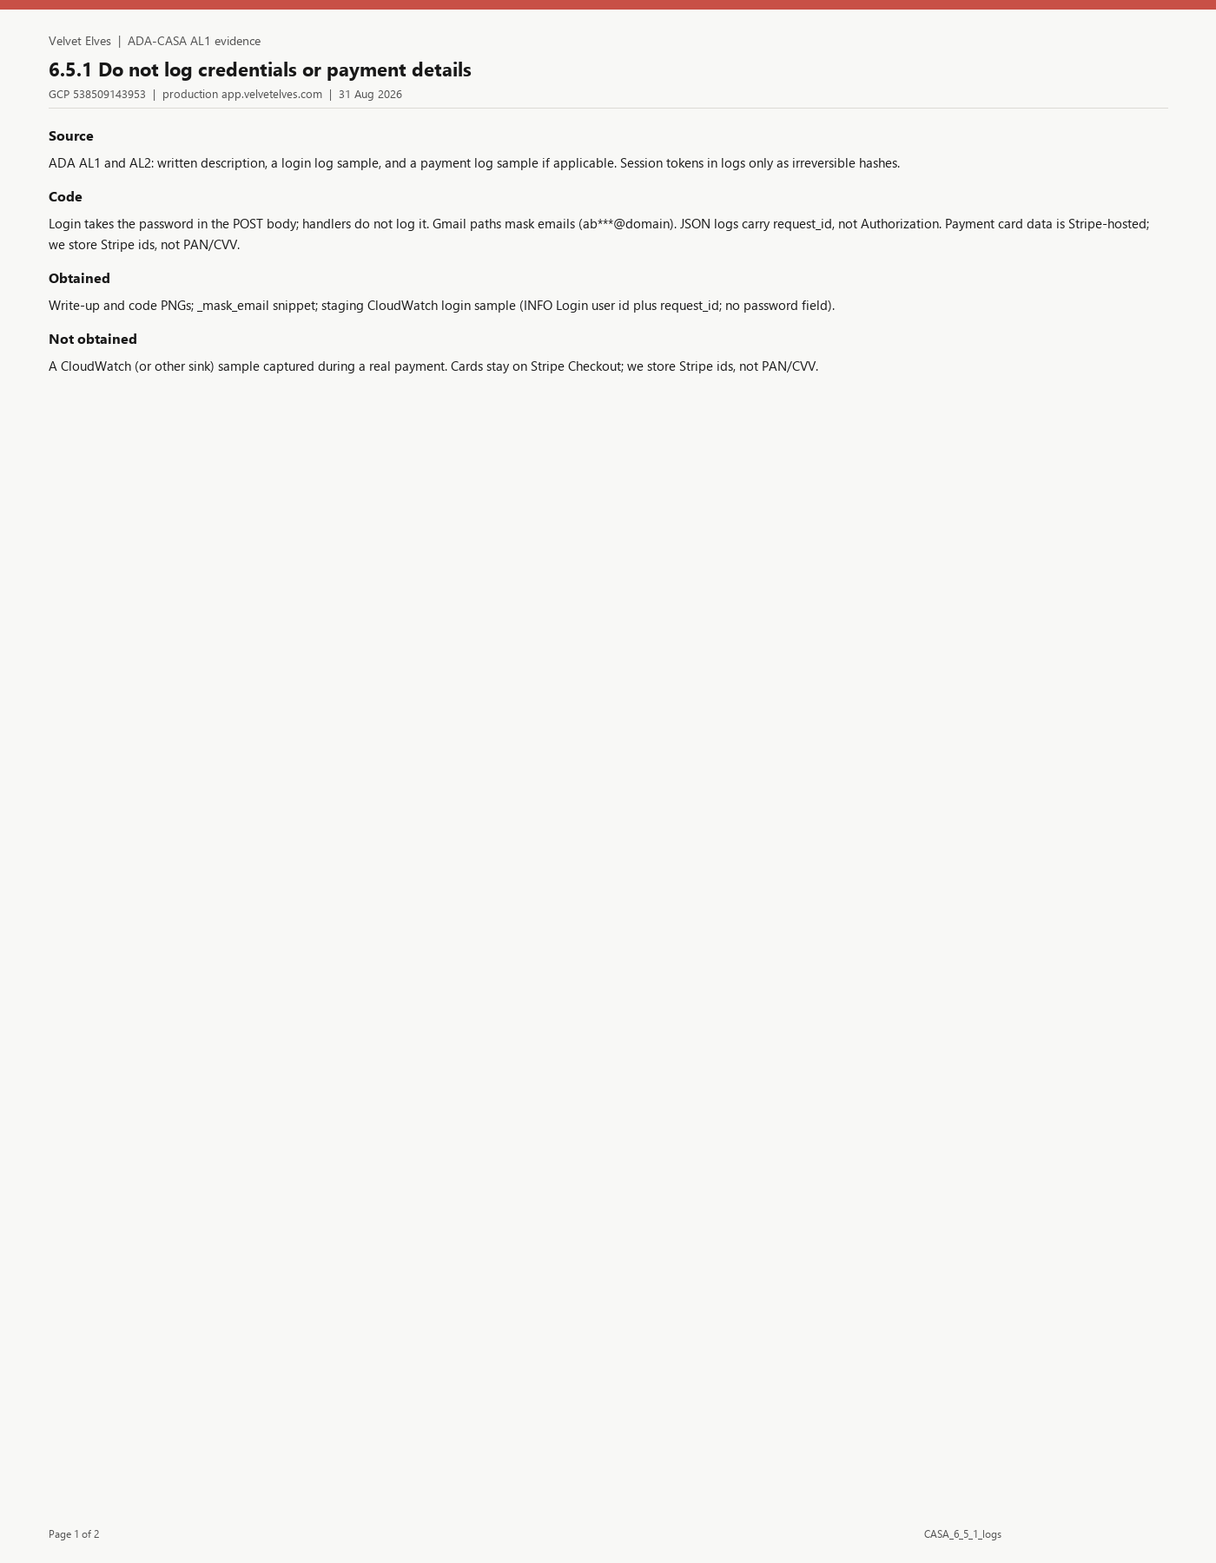
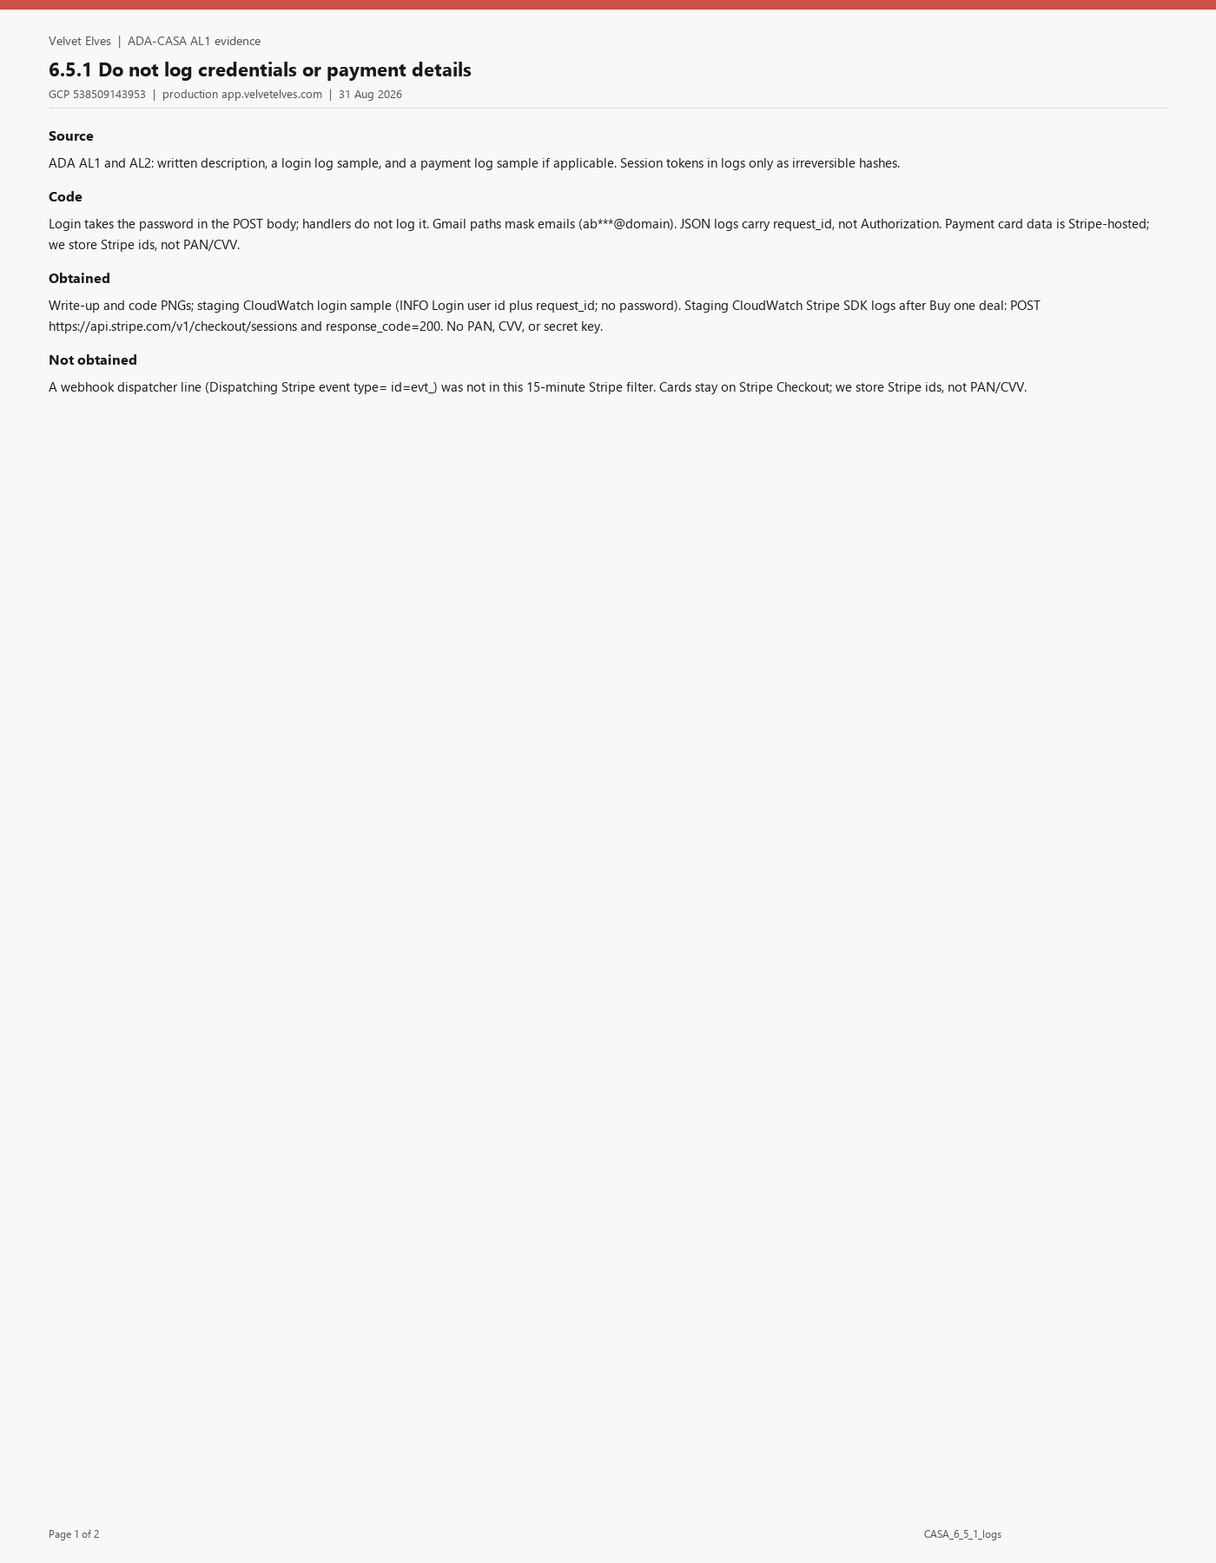
docs(casa): add staging Stripe checkout CloudWatch samples for 6.5.1

Changed region(s): [[0.0307, 0.1867, 0.6757, 0.2489]]

diff --git a/casa_auth_qa/append_casa_rest_pack.py b/casa_auth_qa/append_casa_rest_pack.py
@@ -349,9 +349,9 @@ Live DNS on 31 Aug 2026: app.velvetelves.com and app.stage.velvetelves.com resol
 
 **ADA:** Written description PLUS a login log sample PLUS a payment log sample.
 
-**Claimed:** Code does not log passwords; emails masked; Stripe holds PAN. Staging CloudWatch login event logs user id + request_id only.
+**Claimed:** Code does not log passwords; emails masked; Stripe holds PAN. Staging CloudWatch login event logs user id + request_id only. Staging CloudWatch after Buy one deal: Stripe SDK POST /v1/checkout/sessions and response 200; no PAN/CVV/secret.
 
-**Missing (ADA-named):** Sample from a real payment. Login sample is obtained.
+**Missing:** Webhook dispatcher line (`Dispatching Stripe event type= id=evt_`) was not in this 15-minute Stripe filter. Not required once a payment-process sample exists.
 
 ### Images
 
@@ -362,11 +362,13 @@ Live DNS on 31 Aug 2026: app.velvetelves.com and app.stage.velvetelves.com resol
 | [`tac_images/6.5.1/CASA_6_5_1_logs_code.png`](tac_images/6.5.1/CASA_6_5_1_logs_code.png) | _mask_email; Login user id logger |
 | [`tac_images/6.5.1/CASA_6_5_1_mask.png`](tac_images/6.5.1/CASA_6_5_1_mask.png) | Mask helper |
 | [`tac_images/6.5.1/CASA_6_5_1_login_log.png`](tac_images/6.5.1/CASA_6_5_1_login_log.png) | Staging Insights: Login user id, no password |
+| [`tac_images/6.5.1/CASA_6_5_1_payment_log.png`](tac_images/6.5.1/CASA_6_5_1_payment_log.png) | Staging Insights: Stripe checkout/sessions 200 |
+| [`tac_images/6.5.1/CASA_6_5_1_payment_request.png`](tac_images/6.5.1/CASA_6_5_1_payment_request.png) | Staging Insights: Stripe POST checkout/sessions |
 
 ### Portal comment
 
 ```
-Login passwords are not written to the application logger. Gmail paths mask emails (local-part prefix plus ***). JSON logs include a request id, not the Authorization header. Card data is collected on Stripe Checkout; we store Stripe ids, not PAN or CVV. Staging CloudWatch log group /ecs/velvet-elves/stage/backend on 31 Aug 2026 recorded INFO Login user id=<uuid> with a request_id; the event has no password field and no Authorization header. A payment-process log extract was not obtained.
+Login passwords are not written to the application logger. Gmail paths mask emails (local-part prefix plus ***). JSON logs include a request id, not the Authorization header. Card data is collected on Stripe Checkout; we store Stripe ids, not PAN or CVV. Staging CloudWatch log group /ecs/velvet-elves/stage/backend on 31 Aug 2026 recorded INFO Login user id=<uuid> with a request_id; the event has no password field and no Authorization header. The same log group after a staging Buy one deal checkout recorded stripe logger INFO POST https://api.stripe.com/v1/checkout/sessions and Stripe API response path=https://api.stripe.com/v1/checkout/sessions response_code=200. Those events have no PAN, CVV, or Stripe secret key.
 ```
 
 ---
@@ -445,7 +447,7 @@ def main():
 | 43 | 6.2.1 | Debug off in production | 5 | pack 6.2.1 |
 | 44 | 6.3.1 | Origin not authz | 5 | pack 6.3.1 |
 | 45 | 6.4.1 | Subdomain takeover | 4 | pack 6.4.1 |
-| 46 | 6.5.1 | No credential logs | 5 | pack 6.5.1 — payment log missing |
+| 46 | 6.5.1 | No credential logs | 7 | pack 6.5.1 |
 | 47 | 6.6.1 | Logout clears storage | 4 | pack 6.6.1 |
 | 48 | 6.7.1 | Server secrets | 3 | pack 6.7.1 — no AWS console |
 
@@ -529,7 +531,7 @@ def main():
         ),
         (
             "| 46 | 6.5.1 do not log credentials | `M9g_logging.md` | Logs mask emails No tokens or mail bodies |",
-            "| 46 | 6.5.1 do not log credentials | `tac_images/6.5.1/` — `CASA_6_5_1_logs_page1.png`, `logs_page2.png`, `logs_code.png`, `mask.png`, `login_log.png` | Login passwords are not written to the application logger. Gmail paths mask emails (local-part prefix plus ***). JSON logs include a request id, not the Authorization header. Card data is collected on Stripe Checkout; we store Stripe ids, not PAN or CVV. Staging CloudWatch log group /ecs/velvet-elves/stage/backend on 31 Aug 2026 recorded INFO Login user id=<uuid> with a request_id; the event has no password field and no Authorization header. A payment-process log extract was not obtained. |",
+            "| 46 | 6.5.1 do not log credentials | `tac_images/6.5.1/` — `CASA_6_5_1_logs_page1.png`, `logs_page2.png`, `logs_code.png`, `mask.png`, `login_log.png`, `payment_log.png`, `payment_request.png` | Login passwords are not written to the application logger. Gmail paths mask emails (local-part prefix plus ***). JSON logs include a request id, not the Authorization header. Card data is collected on Stripe Checkout; we store Stripe ids, not PAN or CVV. Staging CloudWatch log group /ecs/velvet-elves/stage/backend on 31 Aug 2026 recorded INFO Login user id=<uuid> with a request_id; the event has no password field and no Authorization header. The same log group after a staging Buy one deal checkout recorded stripe logger INFO POST https://api.stripe.com/v1/checkout/sessions and Stripe API response path=https://api.stripe.com/v1/checkout/sessions response_code=200. Those events have no PAN, CVV, or Stripe secret key. |",
         ),
         (
             "| 47 | 6.6.1 clear browser storage on logout | `compensating_controls.md` | Logout clears velvet elves token keys in localStorage |",
@@ -562,7 +564,7 @@ def main():
         "| 43 | 6.2.1 | Ready | M9a + S11 | [ ] |": "| 43 | 6.2.1 | Packed 31 Aug (prod docs 404; staging docs 200) | CASA_6_2_1 | [ ] |",
         "| 44 | 6.3.1 | Ready | M9f | [ ] |": "| 44 | 6.3.1 | Packed 31 Aug (foreign Origin /users/me 401) | CASA_6_3_1 | [ ] |",
         "| 45 | 6.4.1 | Verify S9 | M9a + S9 | [ ] |": "| 45 | 6.4.1 | Packed 31 Aug (live DNS). Route 53 console NOT captured | CASA_6_4_1 | [ ] |",
-        "| 46 | 6.5.1 | Ready | M9g | [ ] |": "| 46 | 6.5.1 | Packed 31 Aug (code mask + staging CloudWatch login). Payment log NOT captured | CASA_6_5_1 | [ ] |",
+        "| 46 | 6.5.1 | Ready | M9g | [ ] |": "| 46 | 6.5.1 | Packed 31 Aug (code mask + staging CloudWatch login + Stripe checkout/sessions 200) | CASA_6_5_1 | [ ] |",
         "| 47 | 6.6.1 | Ready (verified 27 Aug) | comp | [ ] |": "| 47 | 6.6.1 | Packed 31 Aug (clearTokens; after_logout copy from 2.2.1) | CASA_6_6_1 | [ ] |",
         "| 48 | 6.7.1 | Ready | M9d | [ ] |": "| 48 | 6.7.1 | Packed 31 Aug (Secrets Manager + Fernet). AWS console NOT captured | CASA_6_7_1 | [ ] |",
     }
@@ -582,7 +584,7 @@ def main():
 - **6.2.1** — Packed. Prod docs 404; staging docs 200.
 - **6.3.1** — Packed. Foreign Origin /users/me 401.
 - **6.4.1** — Packed live DNS. Route 53 console NOT captured.
-- **6.5.1** — Packed code mask + staging CloudWatch login sample (user id only). Payment log sample NOT captured (ADA-named gap).
+- **6.5.1** — Packed code mask + staging CloudWatch login (user id) + Stripe checkout-session POST/200 (no PAN).
 - **6.6.1** — Packed. after_logout copied from 2.2.1.
 - **6.7.1** — Packed write-up. AWS Secrets Manager console NOT captured."""
     if old not in gap:

diff --git a/casa_auth_qa/render_casa_rest.py b/casa_auth_qa/render_casa_rest.py
@@ -354,8 +354,8 @@ Route 53 console: not captured.""",
         [
             ("Source", "ADA AL1 and AL2: written description, a login log sample, and a payment log sample if applicable. Session tokens in logs only as irreversible hashes."),
             ("Code", "Login takes the password in the POST body; handlers do not log it. Gmail paths mask emails (ab***@domain). JSON logs carry request_id, not Authorization. Payment card data is Stripe-hosted; we store Stripe ids, not PAN/CVV."),
-            ("Obtained", "Write-up and code PNGs; _mask_email snippet; staging CloudWatch login sample (INFO Login user id plus request_id; no password field)."),
-            ("Not obtained", "A CloudWatch (or other sink) sample captured during a real payment. Cards stay on Stripe Checkout; we store Stripe ids, not PAN/CVV."),
+            ("Obtained", "Write-up and code PNGs; staging CloudWatch login sample (INFO Login user id plus request_id; no password). Staging CloudWatch Stripe SDK logs after Buy one deal: POST https://api.stripe.com/v1/checkout/sessions and response_code=200. No PAN, CVV, or secret key."),
+            ("Not obtained", "A webhook dispatcher line (Dispatching Stripe event type= id=evt_) was not in this 15-minute Stripe filter. Cards stay on Stripe Checkout; we store Stripe ids, not PAN/CVV."),
         ],
     )
     save_page2(
@@ -365,14 +365,14 @@ Route 53 console: not captured.""",
         [
             ("Written description", "This page plus M9g_logging.md."),
             ("Login log sample", "Staging CloudWatch /ecs/velvet-elves/stage/backend 31 Aug 2026: INFO Login user id=<uuid> plus request_id. No password, no Authorization."),
-            ("Payment log sample", "NOT captured. Cards are on Stripe Checkout."),
+            ("Payment log sample", "Same log group 31 Aug 2026 after staging Buy one deal: stripe logger INFO POST /v1/checkout/sessions and Stripe API response 200. No PAN, CVV, or Stripe secret."),
         ],
-        "Code masks emails and does not log passwords or PAN. Staging CloudWatch login extract obtained 31 Aug 2026. A payment log extract was not obtained.",
+        "Code masks emails and does not log passwords or PAN. Staging CloudWatch login and Stripe checkout-session extracts obtained 31 Aug 2026.",
     )
     save_code(
         d,
         "CASA_6_5_1_logs",
-        "6.5.1 Email mask; login logs user id only",
+        "6.5.1 Email mask; login user id; Stripe ids not PAN",
         """# app/services/email/gmail_provider.py
 def _mask_email(value):
     local_mask = local[:2] + '***'
@@ -381,7 +381,8 @@ def _mask_email(value):
 # app/services/auth_service.py
 logger.info("Login user id=%s", supabase_user_id)
 # Password is not written to the logger.
-# Stripe: checkout_url / session ids, not PAN/CVV.""",
+# Stripe SDK INFO: POST /v1/checkout/sessions, response 200.
+# We store Stripe ids, not PAN/CVV.""",
     )
 
     d = out("6.6.1")

diff --git a/casa_auth_qa/casa_rest_live.py b/casa_auth_qa/casa_rest_live.py
@@ -278,7 +278,7 @@ def probe_651_mask():
         out("6.5.1"),
         "CASA_6_5_1_mask.png",
         "6.5.1  Email mask helper (not a CloudWatch login log)",
-        "Staging CloudWatch login sample obtained 31 Aug 2026. Payment sample still missing.",
+        "Staging CloudWatch login and Stripe checkout-session samples obtained 31 Aug 2026.",
         [(f"mask(agent.name@example.com) = {sample}", "not a live log extract", ok)],
     )
     return ok

diff --git a/CASA/TAC_ESOF_PORTAL_GUIDE.md b/CASA/TAC_ESOF_PORTAL_GUIDE.md
@@ -271,7 +271,7 @@ Comments (punctuation allowed) and files:
 | 43 | 6.2.1 debug off in production | `tac_images/6.2.1/` — `CASA_6_2_1_debug_page1.png`, `debug_page2.png`, `debug_code.png`, `debug_zap.png`, `docs.png`, `ecs_env.png` | Production FastAPI hides OpenAPI UI: GET https://api.prod.velvetelves.com/api/docs, /api/redoc, and /api/openapi.json are 404. Staging still serves /api/docs (200). ECS task definition velvet-elves-prod-backend revision 52 sets APP_DEBUG=false and APP_ENV=production as plain environment values. API keys and APP_SECRET_KEY are valueFrom AWS Secrets Manager ARNs, not plaintext in the task. Official ZAP listed generic JSON 500 application-error as Low, not a debug console. We did not run Burp 1050624 (ASP.NET debugging); this app is FastAPI. |
 | 44 | 6.3.1 Origin not used as auth | `tac_images/6.3.1/` | GET /users/me with foreign Origin is 401. JWT authz. |
 | 45 | 6.4.1 subdomain takeover | `tac_images/6.4.1/` — `CASA_6_4_1_dns_page1.png`, `dns_page2.png`, `dns_code.png`, `dns.png`, `route53.png` | Live DNS on 31 Aug 2026: app.velvetelves.com and app.stage.velvetelves.com resolve to CloudFront addresses; api.prod.velvetelves.com and api.stage.velvetelves.com resolve to ALB addresses; help.velvetelves.com and velvetelves.com resolve. Route 53 hosted zone velvetelves.com shows app, app.stage, help, and help.stage as alias A/AAAA to CloudFront; api.prod as alias A to the prod API ALB; api.stage as CNAME to the stage API ALB. Underscore CNAMEs are ACM certificate validation at Amazon, not abandoned Heroku, GitHub, or S3 website endpoints. This filtered view does not include the zone apex row. WSTG-CONF-10 is AL2 and was not run. |
-| 46 | 6.5.1 do not log credentials | `tac_images/6.5.1/` — `CASA_6_5_1_logs_page1.png`, `logs_page2.png`, `logs_code.png`, `mask.png`, `login_log.png` | Login passwords are not written to the application logger. Gmail paths mask emails (local-part prefix plus ***). JSON logs include a request id, not the Authorization header. Card data is collected on Stripe Checkout; we store Stripe ids, not PAN or CVV. Staging CloudWatch log group /ecs/velvet-elves/stage/backend on 31 Aug 2026 recorded INFO Login user id=<uuid> with a request_id; the event has no password field and no Authorization header. A payment-process log extract was not obtained. |
+| 46 | 6.5.1 do not log credentials | `tac_images/6.5.1/` — `CASA_6_5_1_logs_page1.png`, `logs_page2.png`, `logs_code.png`, `mask.png`, `login_log.png`, `payment_log.png`, `payment_request.png` | Login passwords are not written to the application logger. Gmail paths mask emails (local-part prefix plus ***). JSON logs include a request id, not the Authorization header. Card data is collected on Stripe Checkout; we store Stripe ids, not PAN or CVV. Staging CloudWatch log group /ecs/velvet-elves/stage/backend on 31 Aug 2026 recorded INFO Login user id=<uuid> with a request_id; the event has no password field and no Authorization header. The same log group after a staging Buy one deal checkout recorded stripe logger INFO POST https://api.stripe.com/v1/checkout/sessions and Stripe API response path=https://api.stripe.com/v1/checkout/sessions response_code=200. Those events have no PAN, CVV, or Stripe secret key. |
 | 47 | 6.6.1 clear browser storage on logout | `tac_images/6.6.1/` | Staging Log Out: token keys present then absent. velvet_elves_return_location remains. /login after logout. |
 | 48 | 6.7.1 server secrets | `tac_images/6.7.1/` | Secrets Manager plus Fernet. Disconnect is soft deactivate. AWS console and CloudTrail shots NOT obtained. No secret values attached. |
 

diff --git a/casa_al1_evidence/m9/CASA_PORTAL_PACK.md b/casa_al1_evidence/m9/CASA_PORTAL_PACK.md
@@ -71,7 +71,7 @@ Global do-not-claim (these rows): HttpOnly session cookies; MFA default for **al
 | 43 | 6.2.1 | Debug off in production | 6 | pack 6.2.1 |
 | 44 | 6.3.1 | Origin not authz | 5 | pack 6.3.1 |
 | 45 | 6.4.1 | Subdomain takeover | 5 | pack 6.4.1 |
-| 46 | 6.5.1 | No credential logs | 5 | pack 6.5.1 — payment log missing |
+| 46 | 6.5.1 | No credential logs | 7 | pack 6.5.1 |
 | 47 | 6.6.1 | Logout clears storage | 5 | pack 6.6.1 |
 | 48 | 6.7.1 | Server secrets | 3 | pack 6.7.1 — no AWS console |
 
@@ -1565,9 +1565,9 @@ Live DNS on 31 Aug 2026: app.velvetelves.com and app.stage.velvetelves.com resol
 
 **ADA:** Written description PLUS a login log sample PLUS a payment log sample.
 
-**Claimed:** Code does not log passwords; emails masked; Stripe holds PAN. Staging CloudWatch login event logs user id + request_id only.
+**Claimed:** Code does not log passwords; emails masked; Stripe holds PAN. Staging CloudWatch login event logs user id + request_id only. Staging CloudWatch after Buy one deal: Stripe SDK POST /v1/checkout/sessions and response 200; no PAN/CVV/secret.
 
-**Missing (ADA-named):** Sample from a real payment. Login sample is obtained.
+**Missing:** Webhook dispatcher line (`Dispatching Stripe event type= id=evt_`) was not in this 15-minute Stripe filter. Not required once a payment-process sample exists.
 
 ### Images
 
@@ -1578,11 +1578,13 @@ Live DNS on 31 Aug 2026: app.velvetelves.com and app.stage.velvetelves.com resol
 | [`tac_images/6.5.1/CASA_6_5_1_logs_code.png`](tac_images/6.5.1/CASA_6_5_1_logs_code.png) | _mask_email; Login user id logger |
 | [`tac_images/6.5.1/CASA_6_5_1_mask.png`](tac_images/6.5.1/CASA_6_5_1_mask.png) | Mask helper |
 | [`tac_images/6.5.1/CASA_6_5_1_login_log.png`](tac_images/6.5.1/CASA_6_5_1_login_log.png) | Staging Insights: Login user id, no password |
+| [`tac_images/6.5.1/CASA_6_5_1_payment_log.png`](tac_images/6.5.1/CASA_6_5_1_payment_log.png) | Staging Insights: Stripe checkout/sessions 200 |
+| [`tac_images/6.5.1/CASA_6_5_1_payment_request.png`](tac_images/6.5.1/CASA_6_5_1_payment_request.png) | Staging Insights: Stripe POST checkout/sessions |
 
 ### Portal comment
 
 ```
-Login passwords are not written to the application logger. Gmail paths mask emails (local-part prefix plus ***). JSON logs include a request id, not the Authorization header. Card data is collected on Stripe Checkout; we store Stripe ids, not PAN or CVV. Staging CloudWatch log group /ecs/velvet-elves/stage/backend on 31 Aug 2026 recorded INFO Login user id=<uuid> with a request_id; the event has no password field and no Authorization header. A payment-process log extract was not obtained.
+Login passwords are not written to the application logger. Gmail paths mask emails (local-part prefix plus ***). JSON logs include a request id, not the Authorization header. Card data is collected on Stripe Checkout; we store Stripe ids, not PAN or CVV. Staging CloudWatch log group /ecs/velvet-elves/stage/backend on 31 Aug 2026 recorded INFO Login user id=<uuid> with a request_id; the event has no password field and no Authorization header. The same log group after a staging Buy one deal checkout recorded stripe logger INFO POST https://api.stripe.com/v1/checkout/sessions and Stripe API response path=https://api.stripe.com/v1/checkout/sessions response_code=200. Those events have no PAN, CVV, or Stripe secret key.
 ```
 
 ---

diff --git a/CASA/MISSING_SCREENSHOTS_CHECKLIST.md b/CASA/MISSING_SCREENSHOTS_CHECKLIST.md
@@ -14,7 +14,7 @@ Already on disk (do **not** recapture): SSL Labs A+ (4.1.1 / 4.1.2), Supabase Ra
 
 ## How to use this file
 
-1. Work **by ID**, top to bottom in the index. **6.5.1 is first** — ADA names those two samples; the pack is incomplete without them.
+1. Work **by ID**, top to bottom in the index. **6.7.1 is next** — Secrets Manager console and CloudTrail `GetSecretValue` (no secret values).
 2. Follow that ID’s **Capture** steps. If the frame does not match **Must show**, do not save it.
 3. Save as PNG. Suggested names are below. Folder: `casa_al1_evidence/m9/tac_images/<id>/`.
 4. Tick the checkbox here. Add the file to that row’s image table in `CASA_PORTAL_PACK.md` and drop it from **Missing**.
@@ -46,8 +46,8 @@ Priority: **P0** ADA-named samples · **P1** owner consoles ADA asks for · **P2
 
 | Pri | ID | Missing shot | Who | Folder count now |
 | --- | --- | --- | --- | ---: |
-| P0 | [6.5.1](#651--do-not-log-credentials-or-payment-details) | Login log sample | Owner — **done 31 Aug** | 5 |
-| P0 | [6.5.1](#651--do-not-log-credentials-or-payment-details) | Payment log sample | Owner (CloudWatch or Stripe) | 5 |
+| P0 | [6.5.1](#651--do-not-log-credentials-or-payment-details) | Login log sample | Owner — **done 31 Aug** | 7 |
+| P0 | [6.5.1](#651--do-not-log-credentials-or-payment-details) | Payment log sample | Owner — **done 31 Aug** | 7 |
 | P1 | [6.4.1](#641--subdomain-takeover) | Route 53 hosted zone | Owner — **done 31 Aug** | 5 |
 | P1 | [6.7.1](#671--server-side-secrets) | Secrets Manager console | Owner | 3 |
 | P1 | [6.7.1](#671--server-side-secrets) | CloudTrail secret-access | Owner | 3 |
@@ -315,7 +315,7 @@ Do not scan production. Do not write a new exploit.
 
 ## 6.5.1 — Do not log credentials or payment details
 
-**ADA AL1 requires all three:** written description (already packed) **+ login log sample + payment log sample**. This row is **not** complete until both samples exist.
+**ADA AL1 requires all three:** written description **+ login log sample + payment log sample**. All three are packed (31 Aug 2026).
 
 Log group: `/ecs/velvet-elves/stage/backend` (prefer) or `/ecs/velvet-elves/prod/backend`. Region **us-east-2**.
 
@@ -344,9 +344,9 @@ Log group: `/ecs/velvet-elves/stage/backend` (prefer) or `/ecs/velvet-elves/prod
 **Must not show:** full card, bank account, webhook signing secret.  
 **Save as:** `tac_images/6.5.1/CASA_6_5_1_payment_log.png`
 
-- [ ] Payment log sample PNG
+- [x] Payment log sample PNG (`CASA_6_5_1_payment_log.png`, `CASA_6_5_1_payment_request.png`)
 
-After the payment sample exists: edit `CASA_PORTAL_PACK.md` 6.5.1 **Missing** and the portal comment so they no longer say the payment sample was not obtained.
+Packed 31 Aug 2026: staging Insights `filter @message like /Stripe/` after Buy one deal. Stripe SDK INFO POST `/v1/checkout/sessions` and response 200. No PAN/CVV/secret. Webhook `Dispatching Stripe event` line was not in that 15-minute window.
 
 ---
 

diff --git a/CASA/CASA_48_CHECKS_REVISION_PLAN.md b/CASA/CASA_48_CHECKS_REVISION_PLAN.md
@@ -190,6 +190,6 @@ Verdicts from `GAP_ANALYSIS_48_CHECKS.md`. Comments: §7 of the portal guide.
 | 43 | 6.2.1 | Packed 31 Aug (prod docs 404; staging docs 200; ECS APP_DEBUG=false) | CASA_6_2_1 | [ ] |
 | 44 | 6.3.1 | Packed 31 Aug (foreign Origin /users/me 401) | CASA_6_3_1 | [ ] |
 | 45 | 6.4.1 | Packed 31 Aug (live DNS + Route 53 app/api/help to CloudFront/ALB) | CASA_6_4_1 | [ ] |
-| 46 | 6.5.1 | Packed 31 Aug (code mask + staging CloudWatch login). Payment log NOT captured | CASA_6_5_1 | [ ] |
+| 46 | 6.5.1 | Packed 31 Aug (code mask + staging CloudWatch login + Stripe checkout/sessions 200) | CASA_6_5_1 | [ ] |
 | 47 | 6.6.1 | Packed 31 Aug (token keys gone after Log Out; return_location remains) | CASA_6_6_1 | [ ] |
 | 48 | 6.7.1 | Packed 31 Aug (Secrets Manager + Fernet). AWS console NOT captured | CASA_6_7_1 | [ ] |

diff --git a/casa_al1_evidence/m9/GAP_ANALYSIS_48_CHECKS.md b/casa_al1_evidence/m9/GAP_ANALYSIS_48_CHECKS.md
@@ -52,7 +52,7 @@
 - **6.2.1** — Packed. Prod docs 404; staging docs 200. ECS prod-backend rev 52 APP_DEBUG=false APP_ENV=production.
 - **6.3.1** — Packed. Foreign Origin /users/me 401.
 - **6.4.1** — Packed live DNS + Route 53 console (app/help CloudFront, api ALB). Filtered view does not include zone apex.
-- **6.5.1** — Packed code mask + staging CloudWatch login sample (user id only). Payment log sample NOT captured (ADA-named gap).
+- **6.5.1** — Packed code mask + staging CloudWatch login (user id) + Stripe checkout-session POST/200 (no PAN).
 - **6.6.1** — Packed. Staging Log Out: token keys gone; velvet_elves_return_location remains. DevTools Application panel not captured.
 - **6.7.1** — Packed write-up. AWS Secrets Manager console NOT captured.
 
